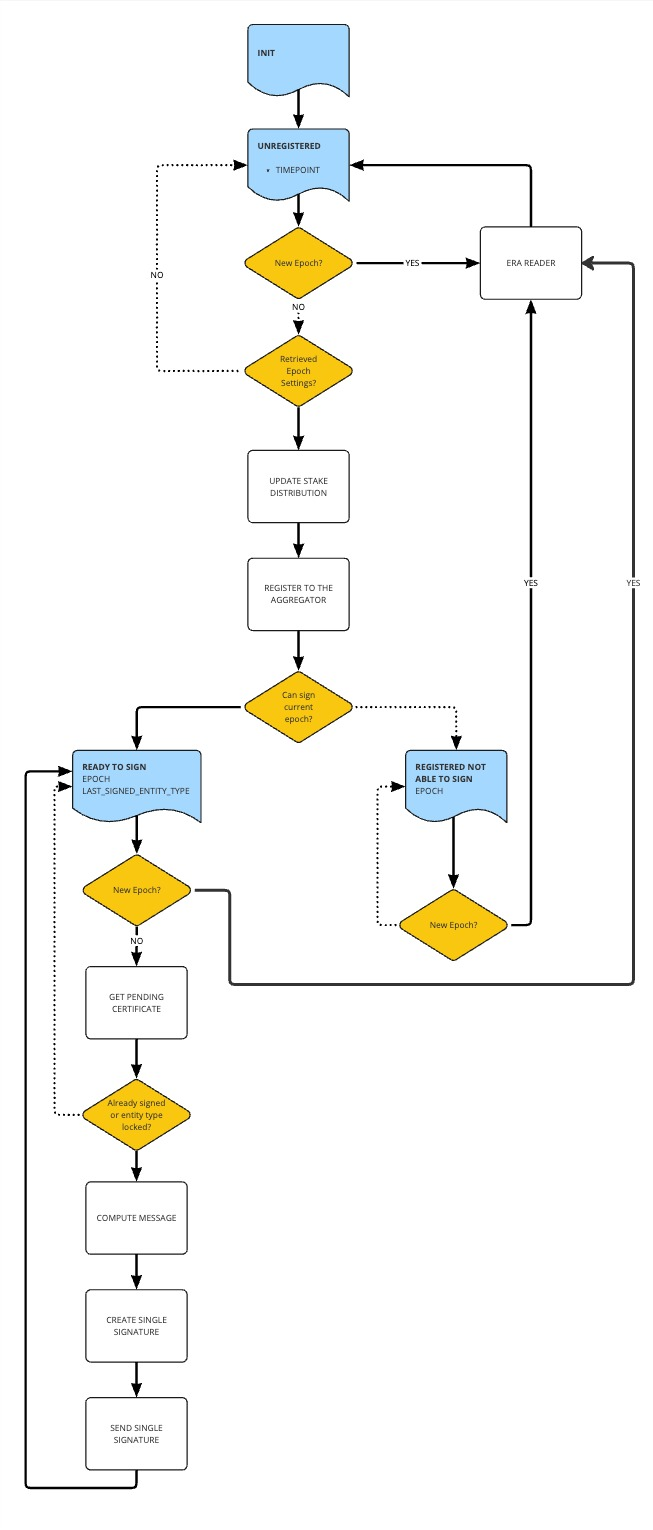
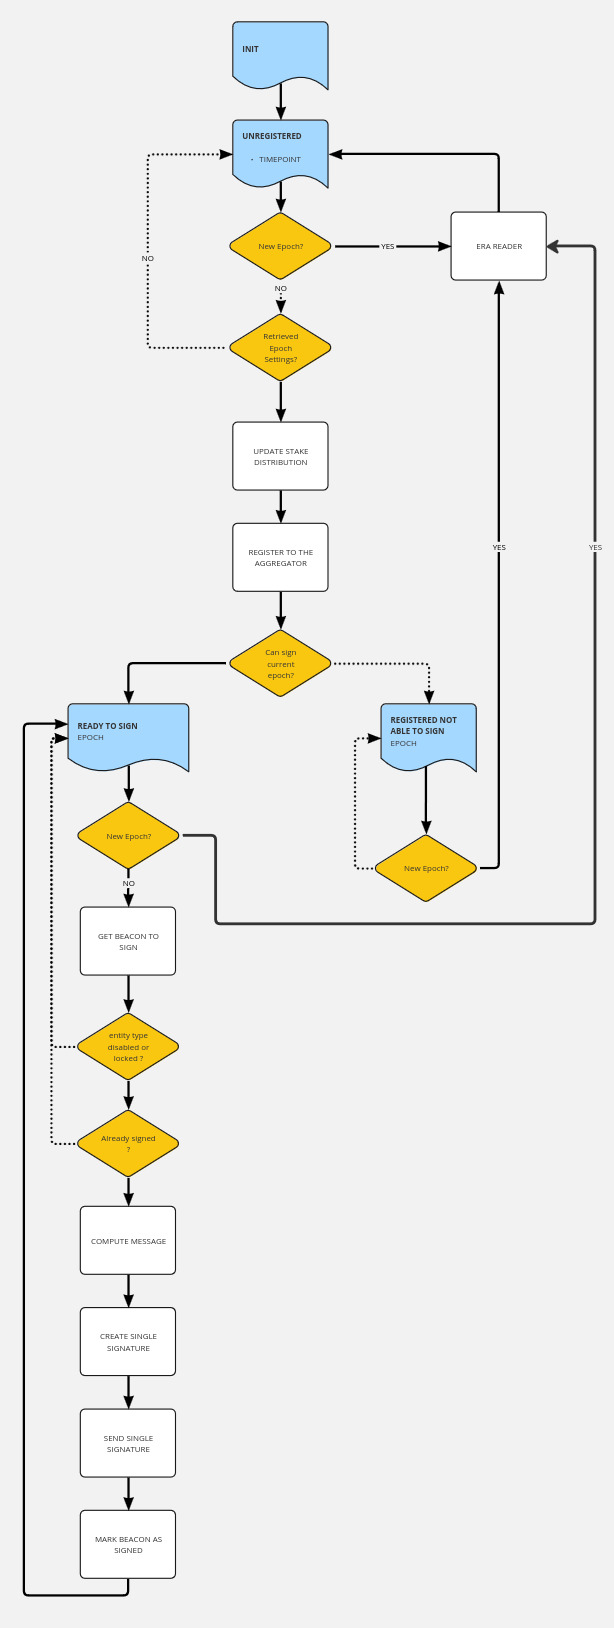
docs: update since signers now compute what to sign independently

diff --git a/docs/website/root/mithril/threat-model.md b/docs/website/root/mithril/threat-model.md
@@ -52,9 +52,7 @@ All Mithril signers and Mithril clients connect to a single aggregator using HTT
 
 Registering a Mithril signing key means that a signer sends its corresponding verification key to the aggregator, for the purpose of distribution to all other Mithril signers.
 
-A Mithril aggregator coordinates creation of signatures by all registered signers. Mithril signers do ask the aggregator whether a signature is pending on a regular basis. The aggregator responds with information what to sign and a list of public information about all registered signers.
-
-Each Mithril signer verifies the information, produces a signature of the requested information to sign and submits that to the aggregator (which verifies the signature being correct upon receiving).
+Each Mithril signer checks if there is something that can be signed independently, produces a signature of what's needed to sign and submits that to the aggregator (which verifies the signature being correct upon receiving).
 
 The aggregator repeatedly checks whether enough valid signatures (to reach the quorum) are available to aggregate a Mithril stake-based multi-signature into a certificate.
 

diff --git a/docs/website/root/mithril/mithril-network/aggregator.md b/docs/website/root/mithril/mithril-network/aggregator.md
@@ -23,11 +23,9 @@ A **Mithril aggregator** is a trustless node responsible for coordinating the ac
 
 The primary objective of the Mithril aggregator is to coordinate and synchronize the production of Mithril multi-signatures:
 
-- When a new snapshot is ready to be produced (and certified), the Mithril aggregator generates and broadcasts a fresh **beacon** to inform Mithril signers of the specific time reference to employ in computing the message (or digest) for signing
+- It is responsible for broadcasting the **verification keys** (Mithril public keys) of all the registered Mithril signers
 
-- It is also responsible for advertising the **verification keys** (Mithril public keys) of all the registered Mithril signers
-
-- The beacon, the current protocol parameters, and the available verification keys are compiled and shared in a **pending certificate**
+- The current protocol parameters and the available verification keys are compiled and shared in an **epoch settings** data
 
 - Mithril signers can register with it to participate in the signature process later on.
 

diff --git a/docs/website/root/mithril/mithril-network/signer.md b/docs/website/root/mithril/mithril-network/signer.md
@@ -40,7 +40,6 @@ Ultimately, any signer will have the potential to function as a Mithril aggregat
 
 The Mithril signer establishes a connection with the Mithril aggregator for the following purposes:
 
-- Determining when to sign a new snapshot (via the advertised beacon of the pending certificate)
 - Obtaining the presently used protocol parameters
 - Registering its verification keys (public keys)
 - Receiving the verification keys of all other declared signers, available for the upcoming message signing
